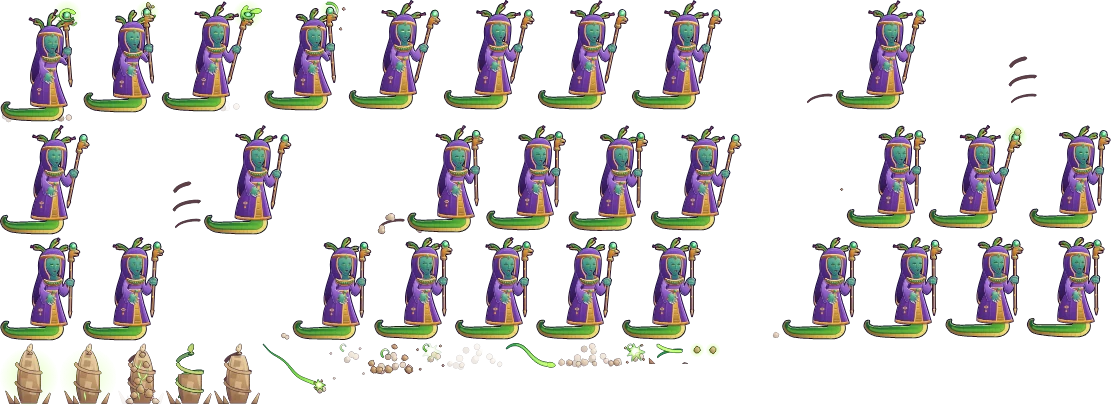
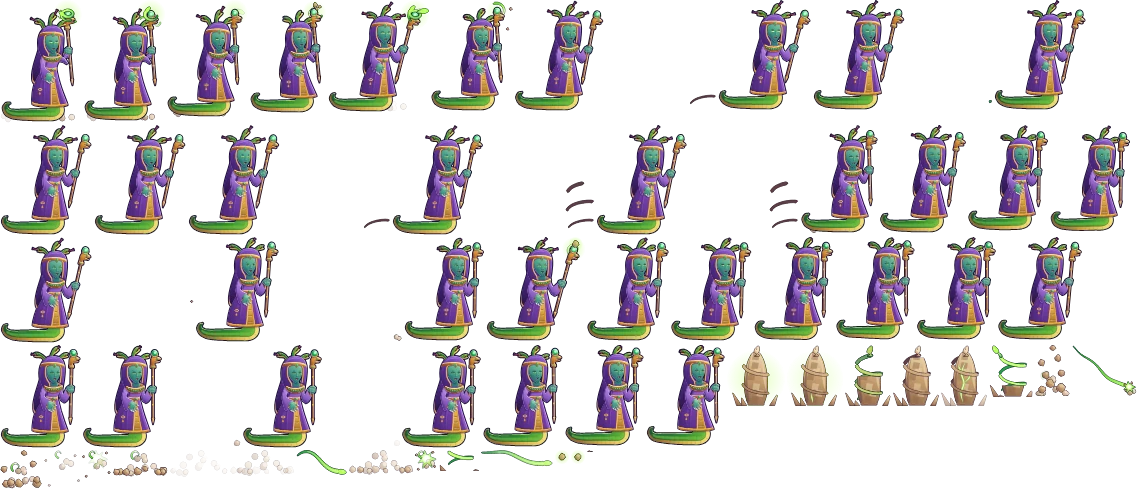
Travail en cours
Claude-Session: https://claude.ai/code/session_01StTiAZjvnzYLiVPjaUWZHe

diff --git a/refonte-graphique/ui-moderne/heros/elvyn/jeu.py b/refonte-graphique/ui-moderne/heros/elvyn/jeu.py
@@ -1,0 +1,80 @@
+# Elvyn au combat : ce que l'outil commun doit savoir (../../jeu_export_vecto.py, consigne ../../EXPORT-JEU.md).
+# Les instants sont en ms depuis le début du coup (ceux d'anim.py) ; les x, y en pixels du dessin (repère d'anim.py).
+import math
+import re
+
+import anim as A
+import elvyn as E
+
+ID = 'angels-6'
+ANIM, DESSIN = A, E
+
+# Les grands éclats ronds (un disque de lumière posé PAR-DESSUS l'impact) cachent, pour la mesure de l'outil, ce qui est
+# dessous (l'outil peint chaque effet d'une couleur pour savoir où il est : un effet caché resterait avec Elvyn). Au
+# combat : celui de l'orbe (r 22) passe sous les autres effets de l'impact ; celui du dragon (r 130, arrêt sur image)
+# serait retiré de toute façon (le jeu a son éclair) : on l'enlève avant. Le dessin et anim.py ne changent pas.
+DISC = re.compile(r'<circle [^>]*r="(\d+)"')
+
+
+def tidy(fx):
+    def wrap(tl):
+        f = fx(tl)
+
+        def g(fig, ctx):
+            n = len(fig.fx_front)
+            f(fig, ctx)
+            new = fig.fx_front[n:]
+            big = lambda e: DISC.match(e) and int(DISC.match(e).group(1)) >= 20   # noqa: E731
+            disc = [e for e in new if big(e) and int(DISC.match(e).group(1)) < 100]
+            fig.fx_front[n:] = disc + [e for e in new if not big(e)]
+        return g
+    return wrap
+
+
+A.fx_attack = tidy(A.fx_attack)
+A.fx_special = tidy(A.fx_special)
+
+BOUCHE = (103.3, 39.2)          # là où l'orbe se détache de la perle (perle + (6, -4,5) au lâcher)
+
+
+def orbe(fig, i):
+    """Le projectile : l'orbe d'eau et sa traîne torsadée (comme dans fx_attack), centre en (0, 0), vers la droite."""
+    tl = 40 * i
+    c, size, L = (0.0, 0.0), 4.6, 34.0
+    cen = [(-L * k / 12, 1.2 * (k / 12) * math.sin(k * 0.9 + tl / 40)) for k in range(13)]
+    ws = [2 * size * (1 - k / 12) ** 1.3 + 0.3 for k in range(13)]
+    trail = A.limb(cen, ws)
+    gtr = A.g_lin(fig, cen[-1], c, [(0, A.WA[3], 0.0), (0.5, A.WA[2], 0.9), (1, A.WA[1], 1)])
+    fig.fx_front.append(A.outlined([(trail, gtr, 1)], w=1.1))
+    fig.fx_front.append(A.water_ball(fig, c, size))
+    run, shapes = [], []
+    for k in range(40):
+        t_ = k / 39
+        ph = t_ * 3 * 2 * math.pi + tl / 30
+        r_ = (2 * size * (1 - t_) ** 1.3) / 2
+        p = (-L * t_, r_ * math.cos(ph))
+        if math.sin(ph) > 0 and 0.1 < t_ < 0.9:
+            run.append(p)
+        else:
+            if len(run) > 2:
+                shapes.append(A.ribbon(run, [0.1] + [0.7] * (len(run) - 2) + [0.1]))
+            run = []
+    for sh in shapes:
+        fig.fx_front.append('<path d="%s" fill="#ffffff" opacity="0.9"/>' % sh.d())
+    for kk, sd in ((0.5, 4.6), (0.9, -3.8)):
+        fig.fx_front.append(A.wdrop(fig, -L * kk, sd, 1, 0, 0.9))
+
+
+JEU = {
+    'pose': dict(periode=2000),
+    # « L'orbe de la perle » : il charge la perle, tend le bras ; l'orbe vole jusqu'à la vraie cible et y éclate
+    # (après l'impact, toutes les gouttes restent sur la cible, même celles qui rebondissent vers lui)
+    'attaque': dict(genre='tir', tir=A.ATT_FIRE, coup=A.ATT_HIT, cible=A.FOE, depuis=BOUCHE[0] - 2, bouche=BOUCHE,
+                    projectile=orbe, proj_images=2, proj_ms=[60, 60], arc=8,
+                    coupe=lambda t: 150 if t < A.ATT_HIT else -200),
+    # « Dragon des marées » : il éveille la perle (bras d'eau, bulles : avec lui) ; le dragon d'eau jaillit, serpente et
+    # plonge sur l'ennemi : dès qu'il jaillit, il est posé sur chaque cible (il ne se perd pas en route)
+    'speciale': dict(genre='sort', coup=A.SP_HIT, cible=A.FOE, charge=(A.SP_GATHER[0], A.SP_EMERGE), fx_max=200,
+                     coupe=lambda t: 150 if t < A.SP_EMERGE else -200,
+                     dense=[(A.SP_EMERGE - 60, A.SP_EMERGE + 200), (A.SP_HIT - 180, A.SP_HIT + 260)]),
+}

diff --git a/refonte-graphique/ui-moderne/monstres/diablotin/jeu.py b/refonte-graphique/ui-moderne/monstres/diablotin/jeu.py
@@ -1,0 +1,18 @@
+# Le diablotin au combat : ce que l'outil commun doit savoir (../../jeu_export_vecto.py, consigne ../../EXPORT-JEU.md).
+# Les instants sont en ms depuis le début du coup (ceux d'anim.py) ; les x, y en pixels du dessin (repère d'anim.py).
+import anim as A
+
+ID = 'mon-lenore-rapide'
+ANIM, DESSIN = A, A.K            # anim.py charge le dessin (diablotin.py) sous le nom K
+JEU = {
+    'pose': dict(periode=870),
+    # « Bond du diablotin » : il bondit dans sa propre animation (`avance`), abat la massue au ras du sol devant lui
+    # (éclat de feu, poussière et braises sur l'ennemi), repart d'un bond à sa place
+    'attaque': dict(genre='melee', coup=A.AT_HIT, cible=(152, 102), coupe=106,
+                    avance=lambda t: A.keyed(A.ATTACK, t)['shift']),
+    # « Braises en rafale » : la massue s'embrase (charge), il file, deux coups rapides (éclats), rebondit et abat la
+    # massue (le coup) : la gerbe de feu jaillit sur l'ennemi
+    'speciale': dict(genre='melee', coup=A.SP_HIT, cible=(152, 100), charge=(110, A.SP_DASH[0]), coupe=110,
+                     dense=[(A.SP_HIT1 - 60, A.SP_HIT2 + 60), (A.SP_HIT - 180, A.SP_HIT + 260)],
+                     avance=lambda t: A.keyed(A.SPECIAL, t)['shift']),
+}

diff --git a/refonte-graphique/ui-moderne/heros/kesha/jeu.py b/refonte-graphique/ui-moderne/heros/kesha/jeu.py
@@ -1,0 +1,18 @@
+# Kesha au combat : ce que l'outil commun doit savoir (../../jeu_export_vecto.py, consigne ../../EXPORT-JEU.md).
+# Les instants sont en ms depuis le début du coup (ceux d'anim.py) ; les x, y en pixels du dessin (repère d'anim.py).
+import anim as A
+import kesha as K
+
+ID = 'demons-5'
+ANIM, DESSIN = A, K
+JEU = {
+    'pose': dict(periode=2000),
+    # « Coup de scie » : il fond sur l'ennemi en fente dans sa propre animation (`avance`), la lame plonge et frappe ;
+    # la gerbe au bout de la lame et les gouttes de l'arrachement sont sur l'ennemi (la traînée de la lame reste à lui)
+    'attaque': dict(genre='melee', coup=A.ATTACK_HIT, cible=(196, 52), coupe=156, cible_des=A.ATTACK_HIT - 5,
+                    avance=lambda t: A.keyed(A.ATTACK, t)['shift']),
+    # « Grand blanc » : il plonge dans le sol, l'aileron file jusqu'à l'ennemi (`avance`), le sol bouillonne sous
+    # l'ennemi, il jaillit dans la gerbe et mord ; la gerbe et sa pluie sont sur l'ennemi ; il ressurgit chez lui
+    'speciale': dict(genre='melee', coup=A.SP_BITE, cible=(228, 60), charge=(100, 370),
+                     coupe=lambda t: 1000 if t < 830 else 190, avance=lambda t: A.keyed(A.SPECIAL, t)['shift']),
+}
